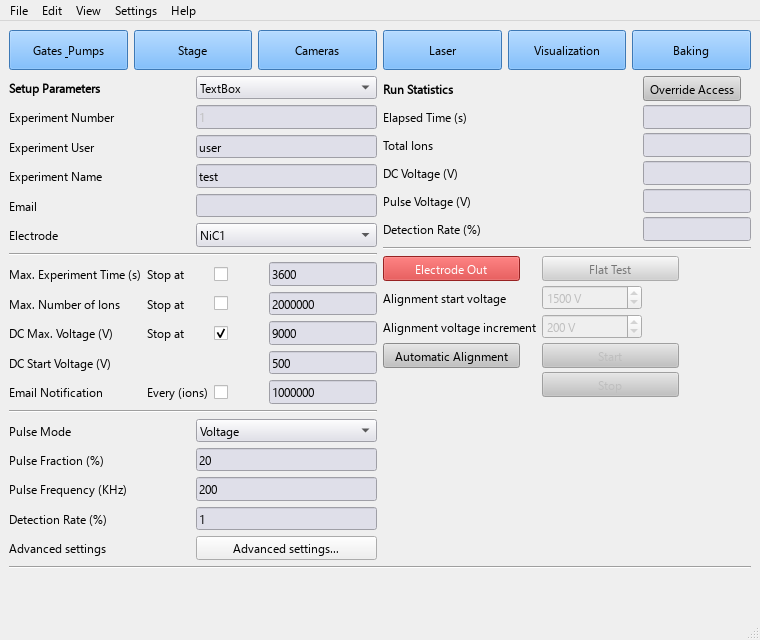
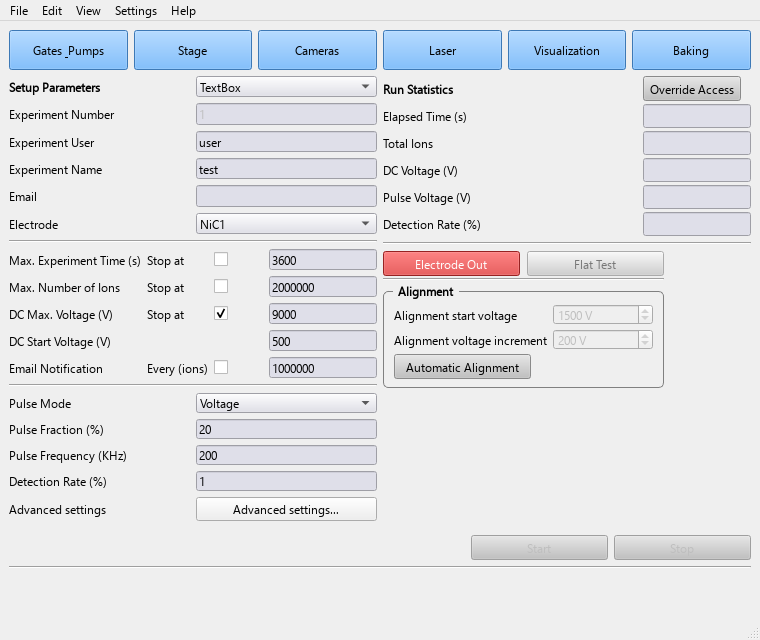
Group alignment controls and separate primary experiment actions

diff --git a/pyccapt/control/gui/main_layout.py b/pyccapt/control/gui/main_layout.py
@@ -42,7 +42,7 @@ class MainLayoutMixin:
         self.run_controls_separator.setObjectName('run_controls_separator')
         self.run_controls_separator.setFrameShape(QtWidgets.QFrame.Shape.HLine)
         self.run_controls_separator.setFrameShadow(QtWidgets.QFrame.Shadow.Sunken)
-        self.gridLayout_6.addWidget(self.run_controls_separator, 2, 0, 1, 2)
+        self.gridLayout_6.addWidget(self.run_controls_separator, 3, 0, 1, 2)
 
         # Remove the third column and group operating controls below statistics.
         self.gridLayout_6.removeItem(self.electrode_controls)
@@ -50,37 +50,57 @@ class MainLayoutMixin:
             self.electrode_controls.takeAt(0)
         for widget in (self.start_button, self.stop_button, self.Error, self.plan_panel):
             self.gridLayout_6.removeWidget(widget)
-        self.gridLayout_6.addWidget(self.plan_panel, 3, 0, 1, 2)
+        self.gridLayout_6.addWidget(self.plan_panel, 4, 0, 1, 2)
         self.run_controls_panel = QtWidgets.QWidget(self.centralwidget)
         controls = QtWidgets.QGridLayout(self.run_controls_panel)
         controls.setContentsMargins(0, 0, 0, 0)
-        controls.setVerticalSpacing(4)
+        controls.setVerticalSpacing(2)
         controls.setAlignment(QtCore.Qt.AlignmentFlag.AlignTop | QtCore.Qt.AlignmentFlag.AlignLeft)
+        controls.addWidget(self.electrode_button, 0, 0, alignment=QtCore.Qt.AlignmentFlag.AlignLeft)
+        controls.addWidget(self.flat_test_button, 0, 1, alignment=QtCore.Qt.AlignmentFlag.AlignLeft)
+        self.electrode_separator = QtWidgets.QFrame(self.run_controls_panel)
+        self.electrode_separator.setObjectName('electrode_separator')
+        self.electrode_separator.setFrameShape(QtWidgets.QFrame.Shape.HLine)
+        self.electrode_separator.setFrameShadow(QtWidgets.QFrame.Shadow.Sunken)
+        controls.addWidget(self.electrode_separator, 1, 0, 1, 2)
+        self.alignment_group = QtWidgets.QGroupBox('Alignment', self.run_controls_panel)
+        self.alignment_group.setObjectName('alignment_group')
+        self.alignment_group.setStyleSheet(
+            'QGroupBox { font-weight: bold; border: 1px solid gray; border-radius: 5px; margin-top: 8px; } '
+            'QGroupBox::title { subcontrol-origin: margin; left: 10px; padding: 0 4px; }')
+        alignment_controls = QtWidgets.QGridLayout(self.alignment_group)
+        alignment_controls.setContentsMargins(10, 12, 10, 8)
+        alignment_controls.setVerticalSpacing(4)
         for row, (label, widget) in enumerate(
             ((self.alignment_start_voltage_label, self.alignment_start_voltage),
-             (self.alignment_voltage_increment_label, self.alignment_voltage_increment)), start=1
+             (self.alignment_voltage_increment_label, self.alignment_voltage_increment))
         ):
             label.setMinimumWidth(0)
             label.setMaximumWidth(16777215)
             label.setWordWrap(False)
             widget.setFixedWidth(100)
-            controls.addWidget(label, row, 0)
-            controls.addWidget(widget, row, 1, alignment=QtCore.Qt.AlignmentFlag.AlignLeft)
-        for widget, row, column in (
-            (self.electrode_button, 0, 0), (self.flat_test_button, 0, 1),
-            (self.automatic_alignment_button, 3, 0),
-            (self.start_button, 3, 1), (self.stop_button, 4, 1),
-        ):
-            controls.addWidget(widget, row, column, alignment=QtCore.Qt.AlignmentFlag.AlignLeft)
+            alignment_controls.addWidget(label, row, 0)
+            alignment_controls.addWidget(widget, row, 1, alignment=QtCore.Qt.AlignmentFlag.AlignLeft)
+        alignment_controls.addWidget(self.automatic_alignment_button, 2, 0, 1, 2,
+                                     alignment=QtCore.Qt.AlignmentFlag.AlignLeft)
+        controls.addWidget(self.alignment_group, 2, 0, 1, 2)
         self.statistics_separator = QtWidgets.QFrame(self.centralwidget)
         self.statistics_separator.setObjectName('statistics_separator')
         self.statistics_separator.setFrameShape(QtWidgets.QFrame.Shape.HLine)
         self.statistics_separator.setFrameShadow(QtWidgets.QFrame.Shadow.Sunken)
         self.verticalLayout_2.addWidget(self.statistics_separator)
         self.verticalLayout_2.addWidget(self.run_controls_panel, alignment=QtCore.Qt.AlignmentFlag.AlignLeft)
-        self.gridLayout_5.setVerticalSpacing(4)
+        self.experiment_actions_panel = QtWidgets.QWidget(self.centralwidget)
+        self.experiment_actions_panel.setObjectName('experiment_actions_panel')
+        actions = QtWidgets.QHBoxLayout(self.experiment_actions_panel)
+        actions.setContentsMargins(0, 8, 0, 0)
+        actions.addStretch()
+        actions.addWidget(self.start_button)
+        actions.addWidget(self.stop_button)
+        self.gridLayout_6.addWidget(self.experiment_actions_panel, 2, 0, 1, 2)
+        self.gridLayout_5.setVerticalSpacing(3)
         self.Error.setMinimumWidth(0)
-        self.gridLayout_6.addWidget(self.Error, 5, 0, 1, 2)
+        self.gridLayout_6.addWidget(self.Error, 6, 0, 1, 2)
 
     def _show_advanced_settings(self):
         self.advanced_settings_dialog.show()

diff --git a/tests/control/test_responsive_gui.py b/tests/control/test_responsive_gui.py
@@ -203,6 +203,7 @@ def test_main_plan_layout_is_compact_and_queue_fits(instrument_window, tmp_path)
     assert ui.advanced_settings_label.isHidden()
     assert ui.advanced_settings_button.isHidden()
     assert ui.run_controls_panel.isVisible()
+    assert ui.experiment_actions_panel.isVisible()
     assert ui.electrode_button.isVisible()
     assert ui.stop_button.isVisible()
     assert window._responsive_window.scroll.viewport().rect().contains(
@@ -242,13 +243,23 @@ def test_main_advanced_dialog_and_run_controls_layout(instrument_window, tmp_pat
     assert position(ui.statistics_separator).y() < position(ui.electrode_button).y()
     assert position(ui.electrode_button).x() < position(ui.flat_test_button).x()
     assert position(ui.electrode_button).y() == position(ui.flat_test_button).y()
-    assert position(ui.automatic_alignment_button).y() == position(ui.start_button).y()
-    assert position(ui.automatic_alignment_button).x() < position(ui.start_button).x()
+    assert ui.electrode_separator.isVisible()
+    assert ui.electrode_separator.frameShape() == QtWidgets.QFrame.Shape.HLine
+    assert position(ui.electrode_button).y() + ui.electrode_button.height() <= position(ui.electrode_separator).y()
+    assert position(ui.electrode_separator).y() < position(ui.alignment_group).y()
+    assert ui.alignment_group.title() == 'Alignment'
+    for widget in (ui.alignment_start_voltage_label, ui.alignment_start_voltage,
+                   ui.alignment_voltage_increment_label, ui.alignment_voltage_increment,
+                   ui.automatic_alignment_button):
+        assert ui.alignment_group.isAncestorOf(widget)
     assert position(ui.alignment_start_voltage).y() < position(ui.alignment_voltage_increment).y()
     assert position(ui.electrode_button).y() < position(ui.alignment_start_voltage).y()
     assert position(ui.alignment_voltage_increment).y() < position(ui.automatic_alignment_button).y()
-    assert position(ui.flat_test_button).y() < position(ui.start_button).y() < position(ui.stop_button).y()
-    assert position(ui.flat_test_button).x() == position(ui.start_button).x() == position(ui.stop_button).x()
+    assert position(ui.start_button).y() == position(ui.stop_button).y()
+    assert position(ui.start_button).x() < position(ui.stop_button).x()
+    assert position(ui.start_button).y() >= position(ui.alignment_group).y() + ui.alignment_group.height() + 8
+    assert position(ui.start_button).y() > position(ui.advanced_settings_button).y()
+    assert position(ui.stop_button).y() + ui.stop_button.height() < position(ui.run_controls_separator).y()
     ui.advanced_settings_button.click()
     for _ in range(3):
         app.processEvents()

diff --git a/pyccapt/control/CONTROL.md b/pyccapt/control/CONTROL.md
@@ -28,9 +28,10 @@ and K_p controls together. These are the same controls used by the main form:
 edits apply immediately and existing run locks remain in effect. The Advanced
 settings label and button sit below the target Detection Rate input on the left.
 A separator below the Run Statistics detection rate precedes Electrode and
-Flat Test. Alignment start voltage and voltage increment follow, then Automatic
-Alignment sits beside Start. Stop is below Start. One full-width separator remains
-below the parameter/statistics area.
+Flat Test. A second line separates these buttons from the bordered Alignment box
+containing alignment start voltage, voltage increment and Automatic Alignment.
+Start and Stop sit side by side in a separate row just above the bottom full-width
+separator.
 
 Laser command units, readback semantics and recording corrections are documented
 in [LASER_MANUAL_AUDIT.md](LASER_MANUAL_AUDIT.md).

diff --git a/docs/CONTROL.md b/docs/CONTROL.md
@@ -21,9 +21,10 @@ queue, or use **TextBox** for a single run. The main window opens at 760 × 640.
 The **Advanced settings** label and button sit below the target Detection Rate
 input on the left and open the detection/control settings and pulse-voltage
 limits in one dialog. A separator below the Run Statistics detection rate
-precedes Electrode and Flat Test. Alignment voltage fields follow, then Automatic
-Alignment sits beside Start, with Stop below Start. A full-width separator remains below
-the parameters and statistics.
+precedes Electrode and Flat Test. A second line separates these buttons from the
+bordered Alignment box containing both voltage fields and Automatic Alignment.
+Start and Stop sit side by side in a separate row immediately above the bottom
+full-width separator.
 See [Experiment Plans](experiment_plans.rst)
 for file format, units, sample-position mapping and step-by-step instructions.
 

diff --git a/pyccapt/control/EXPERIMENT_PLANS.md b/pyccapt/control/EXPERIMENT_PLANS.md
@@ -11,9 +11,10 @@ normal experiment locks still apply. For TOML plans, use the queue's **Edit**
 button to change those settings for a specific experiment. The Advanced settings
 label and button sit directly below the target Detection Rate input on the left
 in TextBox mode. A separator below the Run Statistics detection rate precedes
-Electrode and Flat Test. Alignment start voltage and increment follow, then
-Automatic Alignment sits beside Start, with Stop below Start. A full-width
-separator remains below the parameters and statistics.
+Electrode and Flat Test. A second line separates these buttons from the bordered
+Alignment box containing alignment start voltage, voltage increment and Automatic
+Alignment. Start and Stop sit side by side in a separate row just above the bottom
+full-width separator and experiment queue.
 
 ## Load and run the example
 

diff --git a/README.md b/README.md
@@ -168,8 +168,9 @@ settings…** groups detection mode, control algorithm, refresh frequency,
 pulse-voltage limits and K_p settings in a separate dialog. The Advanced settings
 label and button sit directly below the target Detection Rate input on the left.
 A separator below the Run Statistics detection rate precedes Electrode and
-Flat Test. The alignment voltage fields follow, then Automatic Alignment and
-Start share a row, with Stop below Start.
+Flat Test. A second line separates these buttons from the bordered Alignment
+box containing both voltage fields and Automatic Alignment. Start and Stop sit
+side by side in a separate row just above the bottom full-width separator.
 The parameter sources are TextBox for a single run and TOML Plan for a queue.
 
 Control GUI electrode labels are stored in `pyccapt/control/electrode.toml`:
